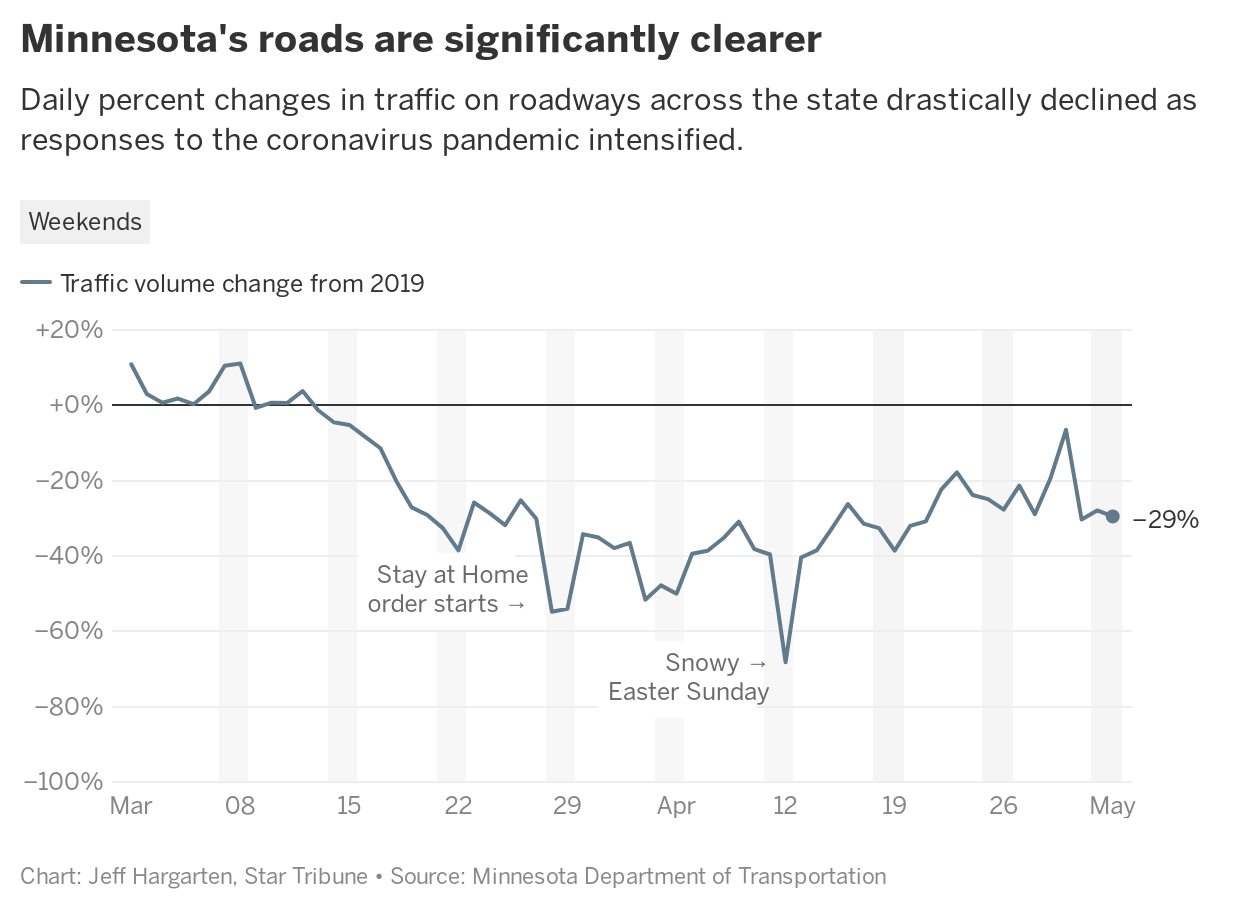
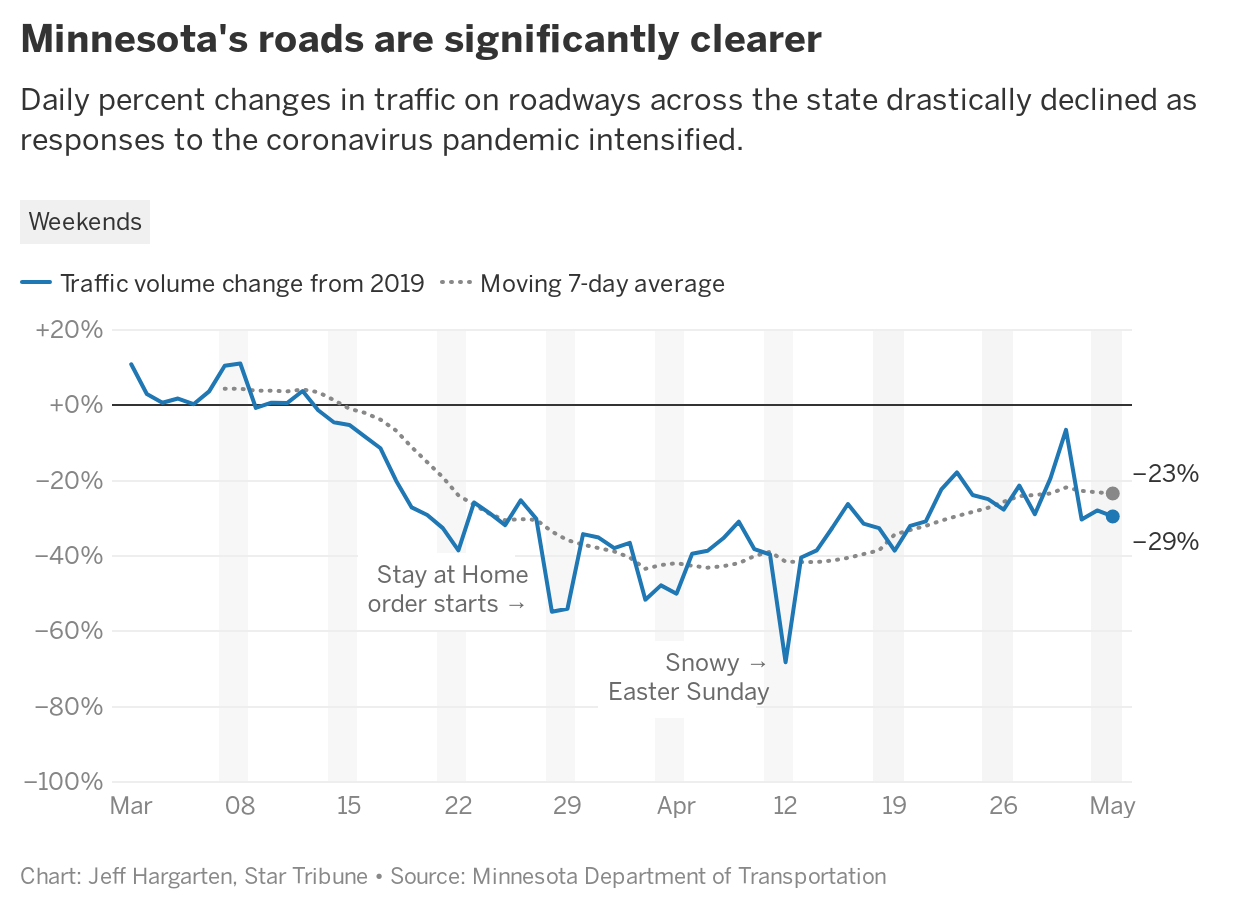
updates

diff --git a/templates/_index-content.svelte.html b/templates/_index-content.svelte.html
@@ -1,7 +1,7 @@
 <div class="strib-styles ssa ssb ssc">
   <section class="container-lg elex-header">
     <h5 class="font-popular-light topper"><span class="font-popular-medium"><a href="https://www.startribune.com/local/coronavirus/">Coronavirus</a></span></h5>
-    <h1>Three charts tracking how Minnesotans are socially distancing</h1>
+    <h1>Three charts tracking how Minnesotans are – or aren't – socially distancing</h1>
     <div class="byline">
       <address>By
         <a rel="author" href="http://www.startribune.com/jeff-hargarten/274254381/">Jeff Hargarten</a>
@@ -9,7 +9,7 @@
       <span class="spacer"></span>
       Star Tribune
       <span class="spacer-alt"></span>
-      <time pubdate datetime="2020-02-04:00:00">Updated May 4, 2020</time>
+      <time pubdate datetime="2020-02-04:00:00">Updated May 5, 2020</time>
     </div>
     <p></p>
     <!-- share -->
@@ -20,22 +20,26 @@
     <section class="leadin">
       <p>Typical Minnesota life has ground to a halt since Gov. Tim Walz announced a shelter-in-place order in late March, the strongest tactic so far to combat <a href="https://www.startribune.com/coronavirus-covid-19-minnesota-tracker-map-county-data/568712601/">mounting death tolls</a> from COVID-19 infections across the state.</p>
       
-      <p>Signs suggest these measures are <a href="https://www.startribune.com/keep-it-up-minnesota-covid-19-response-shows-promise/569384442/">apparently working to slow the coronavirus pandemic</a> in Minnesota, and various data show residents take this order seriously enough to curb their normal habits dramatically.</p>
+      <p>Signs suggest these measures are <a href="https://www.startribune.com/keep-it-up-minnesota-covid-19-response-shows-promise/569384442/">apparently working to slow the coronavirus pandemic</a> in Minnesota, and various data show residents take this order seriously enough to curb their normal habits.</p>
+
+      <p>Though weeks later, as nicer weather becomes the norm and summer approaches, fewer are staying home as often.</p>
       
-      <p>With federal social distancing guidelines in place until at least May and many summer events being canceled entirely, here’s a deeper look at some ways Minnesotans have quarantined themselves against COVID-19:</p>
+      <p>With federal social distancing guidelines in place until at least mid-May and many summer events being canceled entirely, here’s a deeper look at some ways Minnesotans have quarantined themselves against COVID-19:</p>
       
     </section>
 
 
     <div class="rule"></div>
     <section class="body">
-      <h2 class="chartTitle">Minnesota roads are less crowded</h2>
+      <h2 class="chartTitle">Minnesota roads are less crowded, but normalizing</h2>
 
-      <p>Far fewer vehicles have been observed on state roadways, according to Minnesota Department of Transportation data.</p>
+      <p>Fewer vehicles have been observed on state roadways, according to Minnesota Department of Transportation data.</p>
 
-      <p>Comparing daily traffic volume this year to corresponding days in 2019 shows Minnesota roads are half as busy during the quarantine. Weekends prior to the lockdown tended to be busier, but weekdays have since seen relatively greater traffic volumes.</p>
+      <p>Comparing daily traffic volume this year to corresponding days in 2019 shows Minnesota roads were half as busy as the quarantine started. Weekends prior to the lockdown tended to be busier, but weekdays have since seen relatively greater traffic volumes.</p>
 
       <p>Even before the order to stay home took effect by March 28, Minnesotans were already commuting less as employees shifted to working remotely, public events canceled and businesses reduced service or shuttered entirely in response to coronavirus spreading throughout the community.</p>
+      
+      <p>Since then, traffic levels have started gradually creeping back up.</p>
     </section>
 
     <div class="slide space">
@@ -45,13 +49,13 @@
 
     <div class="rule"></div>
     <section class="body">
-      <h2 class="chartTitle">Phone tracking shows Minnesotans are homebound</h2>
+      <h2 class="chartTitle">Phone tracking shows Minnesotans are either homebound or at the park</h2>
 
       <p>Some organizations have started using cellphone tracking data to measure how people are social distancing, including <a href="https://www.cuebiq.com/visitation-insights-covid19/" target="new">Cuebiq</a>, <a href="https://www.unacast.com/covid19/social-distancing-scoreboard" target="new">Unacast</a> and <a href="https://www.google.com/covid19/mobility/" target="new_">Google</a>.</p>
 
-      <p>All reveal Minnesotans are venturing outside their homes for usual activities significantly less than average, and Google's metrics show the impact of transit schedule limitations, closed retail stores and changes to work routines.</p> 
+      <p>All reveal Minnesotans are venturing outside their homes for usual activities like significantly less than average, and Google's metrics show the impact of transit schedule limitations, closed retail stores and changes to work routines.</p> 
 
-      <p>Those venturing into parks for fresh air and to walk pets during the quarantine, however, has skyrocketed.</p>
+      <p>However, visits into parks for fresh air, exercise and to walk pets during the quarantine have skyrocketed.</p>
     </section>
 
     <div class="slide">
@@ -60,14 +64,14 @@
 
     <div class="rule"></div>
     <section class="body">
-      <h2 class="chartTitle">Sheltering efforts vary by location</h2>
+      <h2 class="chartTitle">Sheltering efforts have started to slide</h2>
 
     <section class="body">
       <p>Unacast cellphone tracking suggests some Minnesotans could be better about quarantining, as the state's assigned social distancing grade slid from an A- just after the shelter-in-place order to a C by April and then May.</p>
         
-      <p>Hennepin and Ramsey counties received the best grades in the Twin Cities metro area, while Anoka ranked the lowest.</p>
+      <p>Hennepin and Ramsey counties received the best grades in the Twin Cities metro area, while Anoka ranked the lowest. Though data suggests the entire metro has slacked off staying home and refraining from visits to non-essential destinations.</p>
 
-      <p>Some of the previously harsher scores assigned to greater Minnesota might have been skewed by those residents typically traveling further for essential trips to stores or workplaces. Those grades have all improved though as the lockdowns continue and analyses are adjusted to account for regional differences.</p>
+      <p>Some of the previously harsher scores assigned to greater Minnesota might have been skewed by those residents typically traveling further for essential trips to stores or workplaces. Those grades have improved as the lockdowns continue and analyses are adjusted to account for regional differences.</p>
     </section>
 
     <div class="slide">
